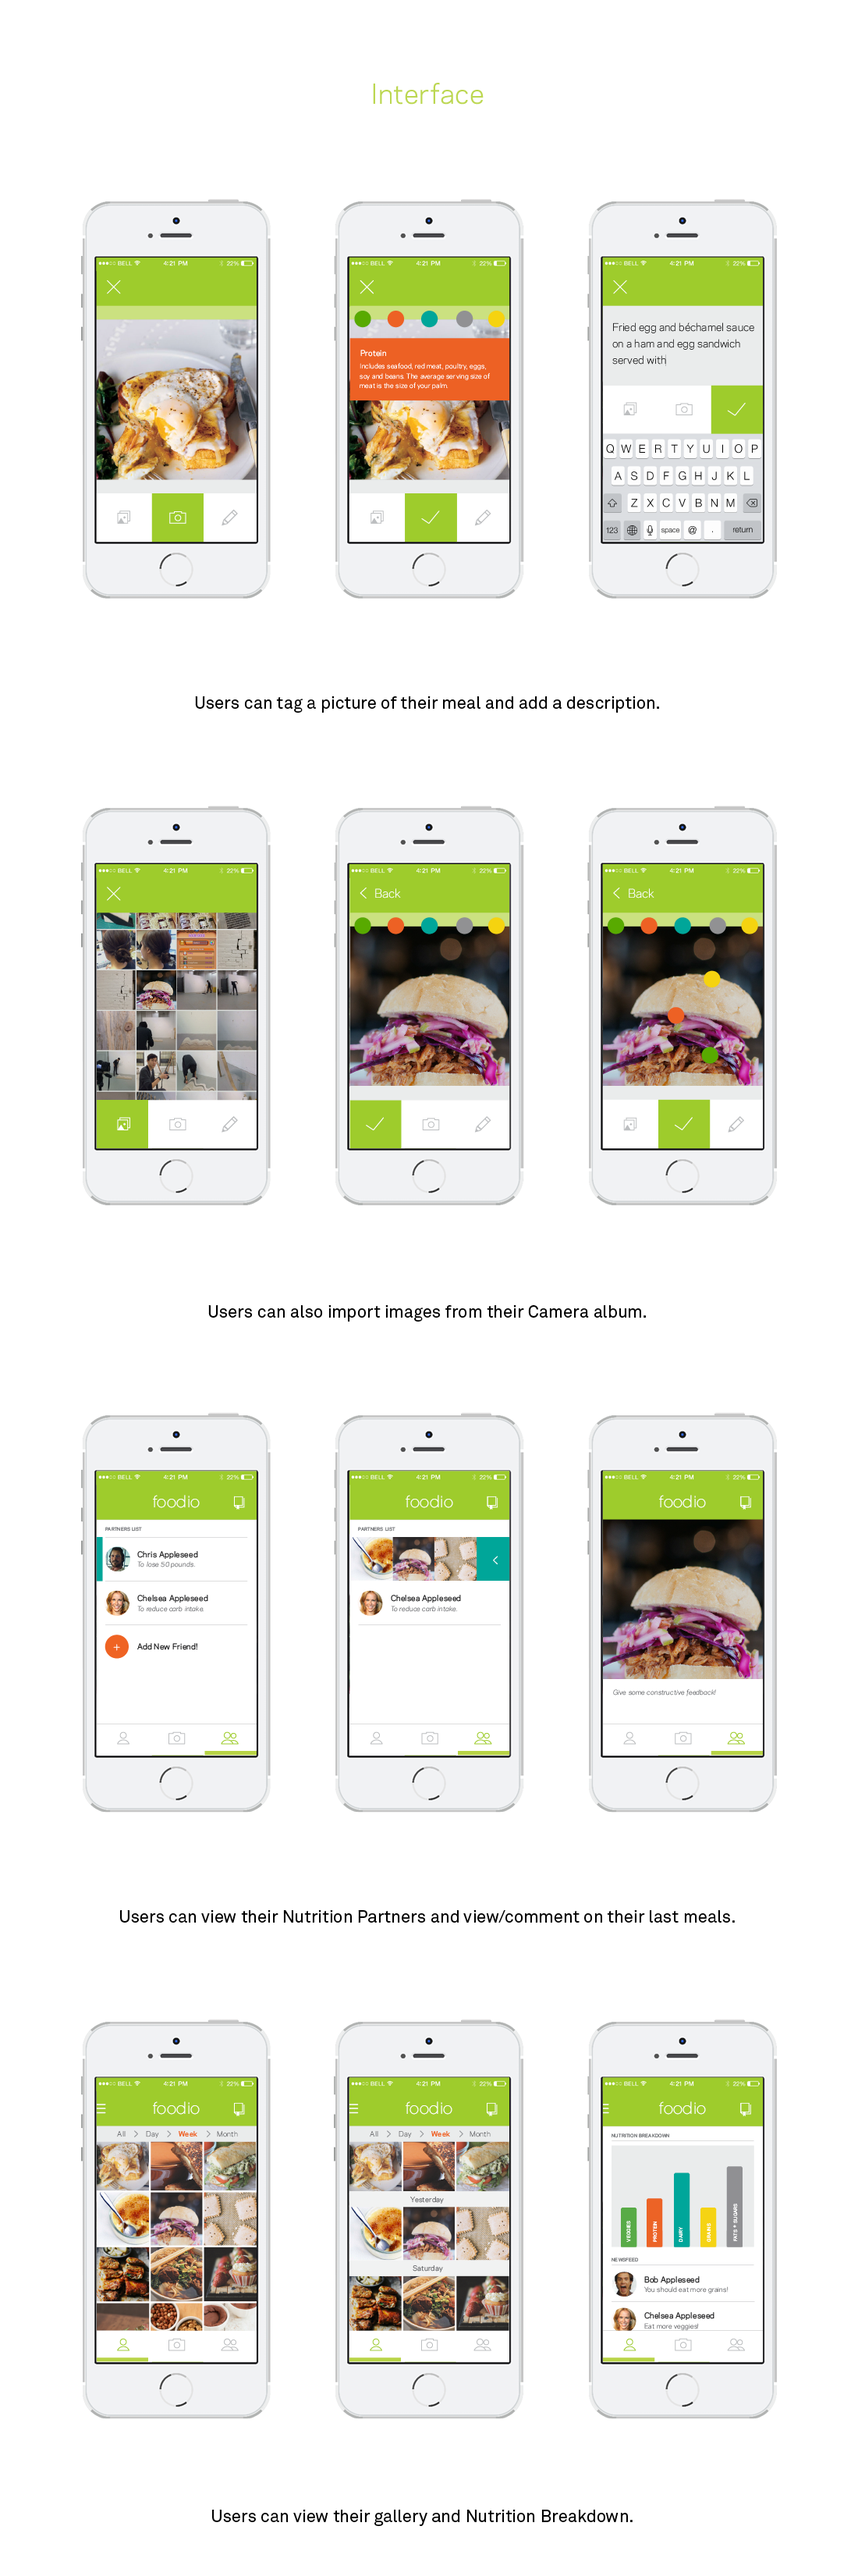
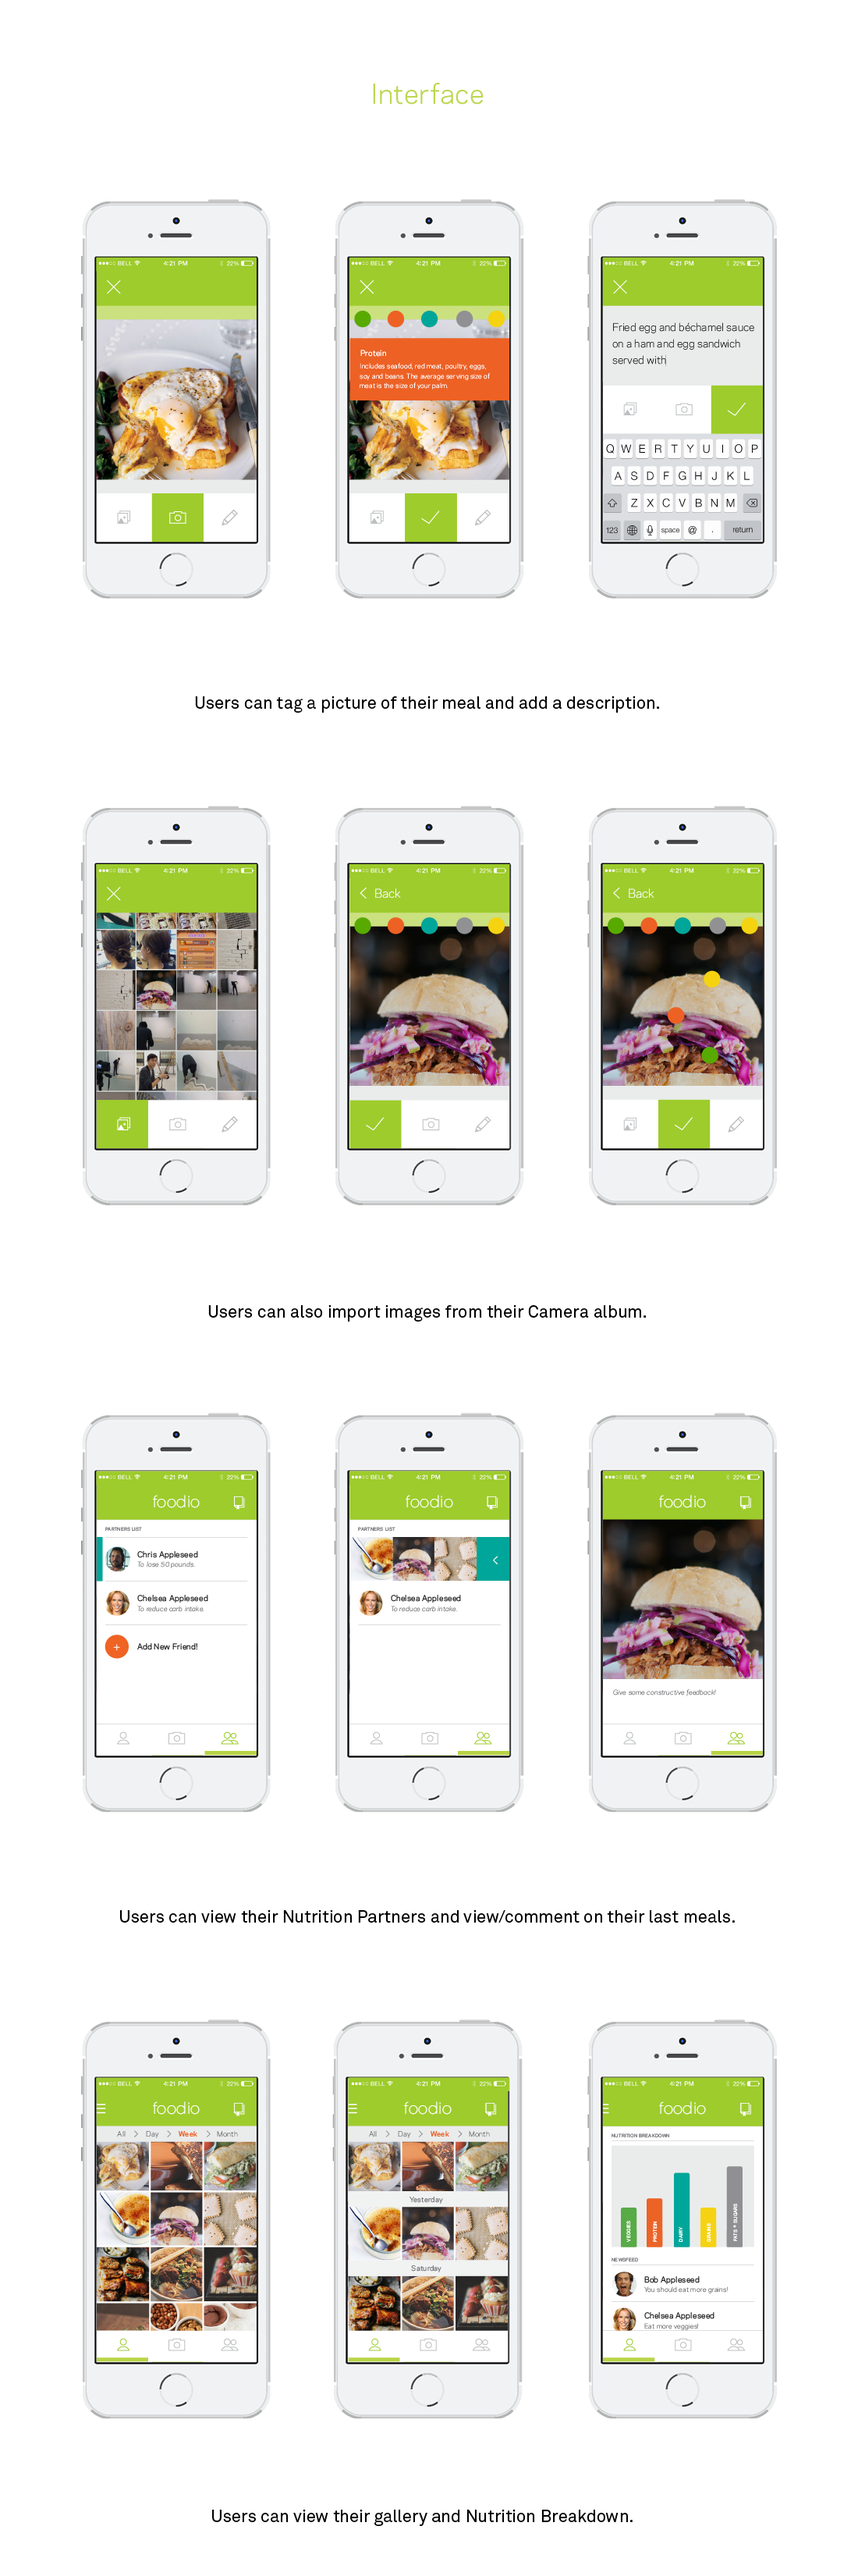
Portfolio Site
fixed foodio again !

Changed region(s): [[0.3709, 0.7803, 0.6182, 0.9364]]

diff --git a/projects/proj8/index.html b/projects/proj8/index.html
@@ -21,7 +21,7 @@ Collaborative project with Cathy Lee, Josh Inch, HyunJey Kim and Chuya Lee.
 <img src="foodio3.png">
 <img src="foodio2.png">
 <br/><br/><br/>
-<img src="foodio4new.png">
+<img src="foodio4new2.png">
     
     
 </body>
